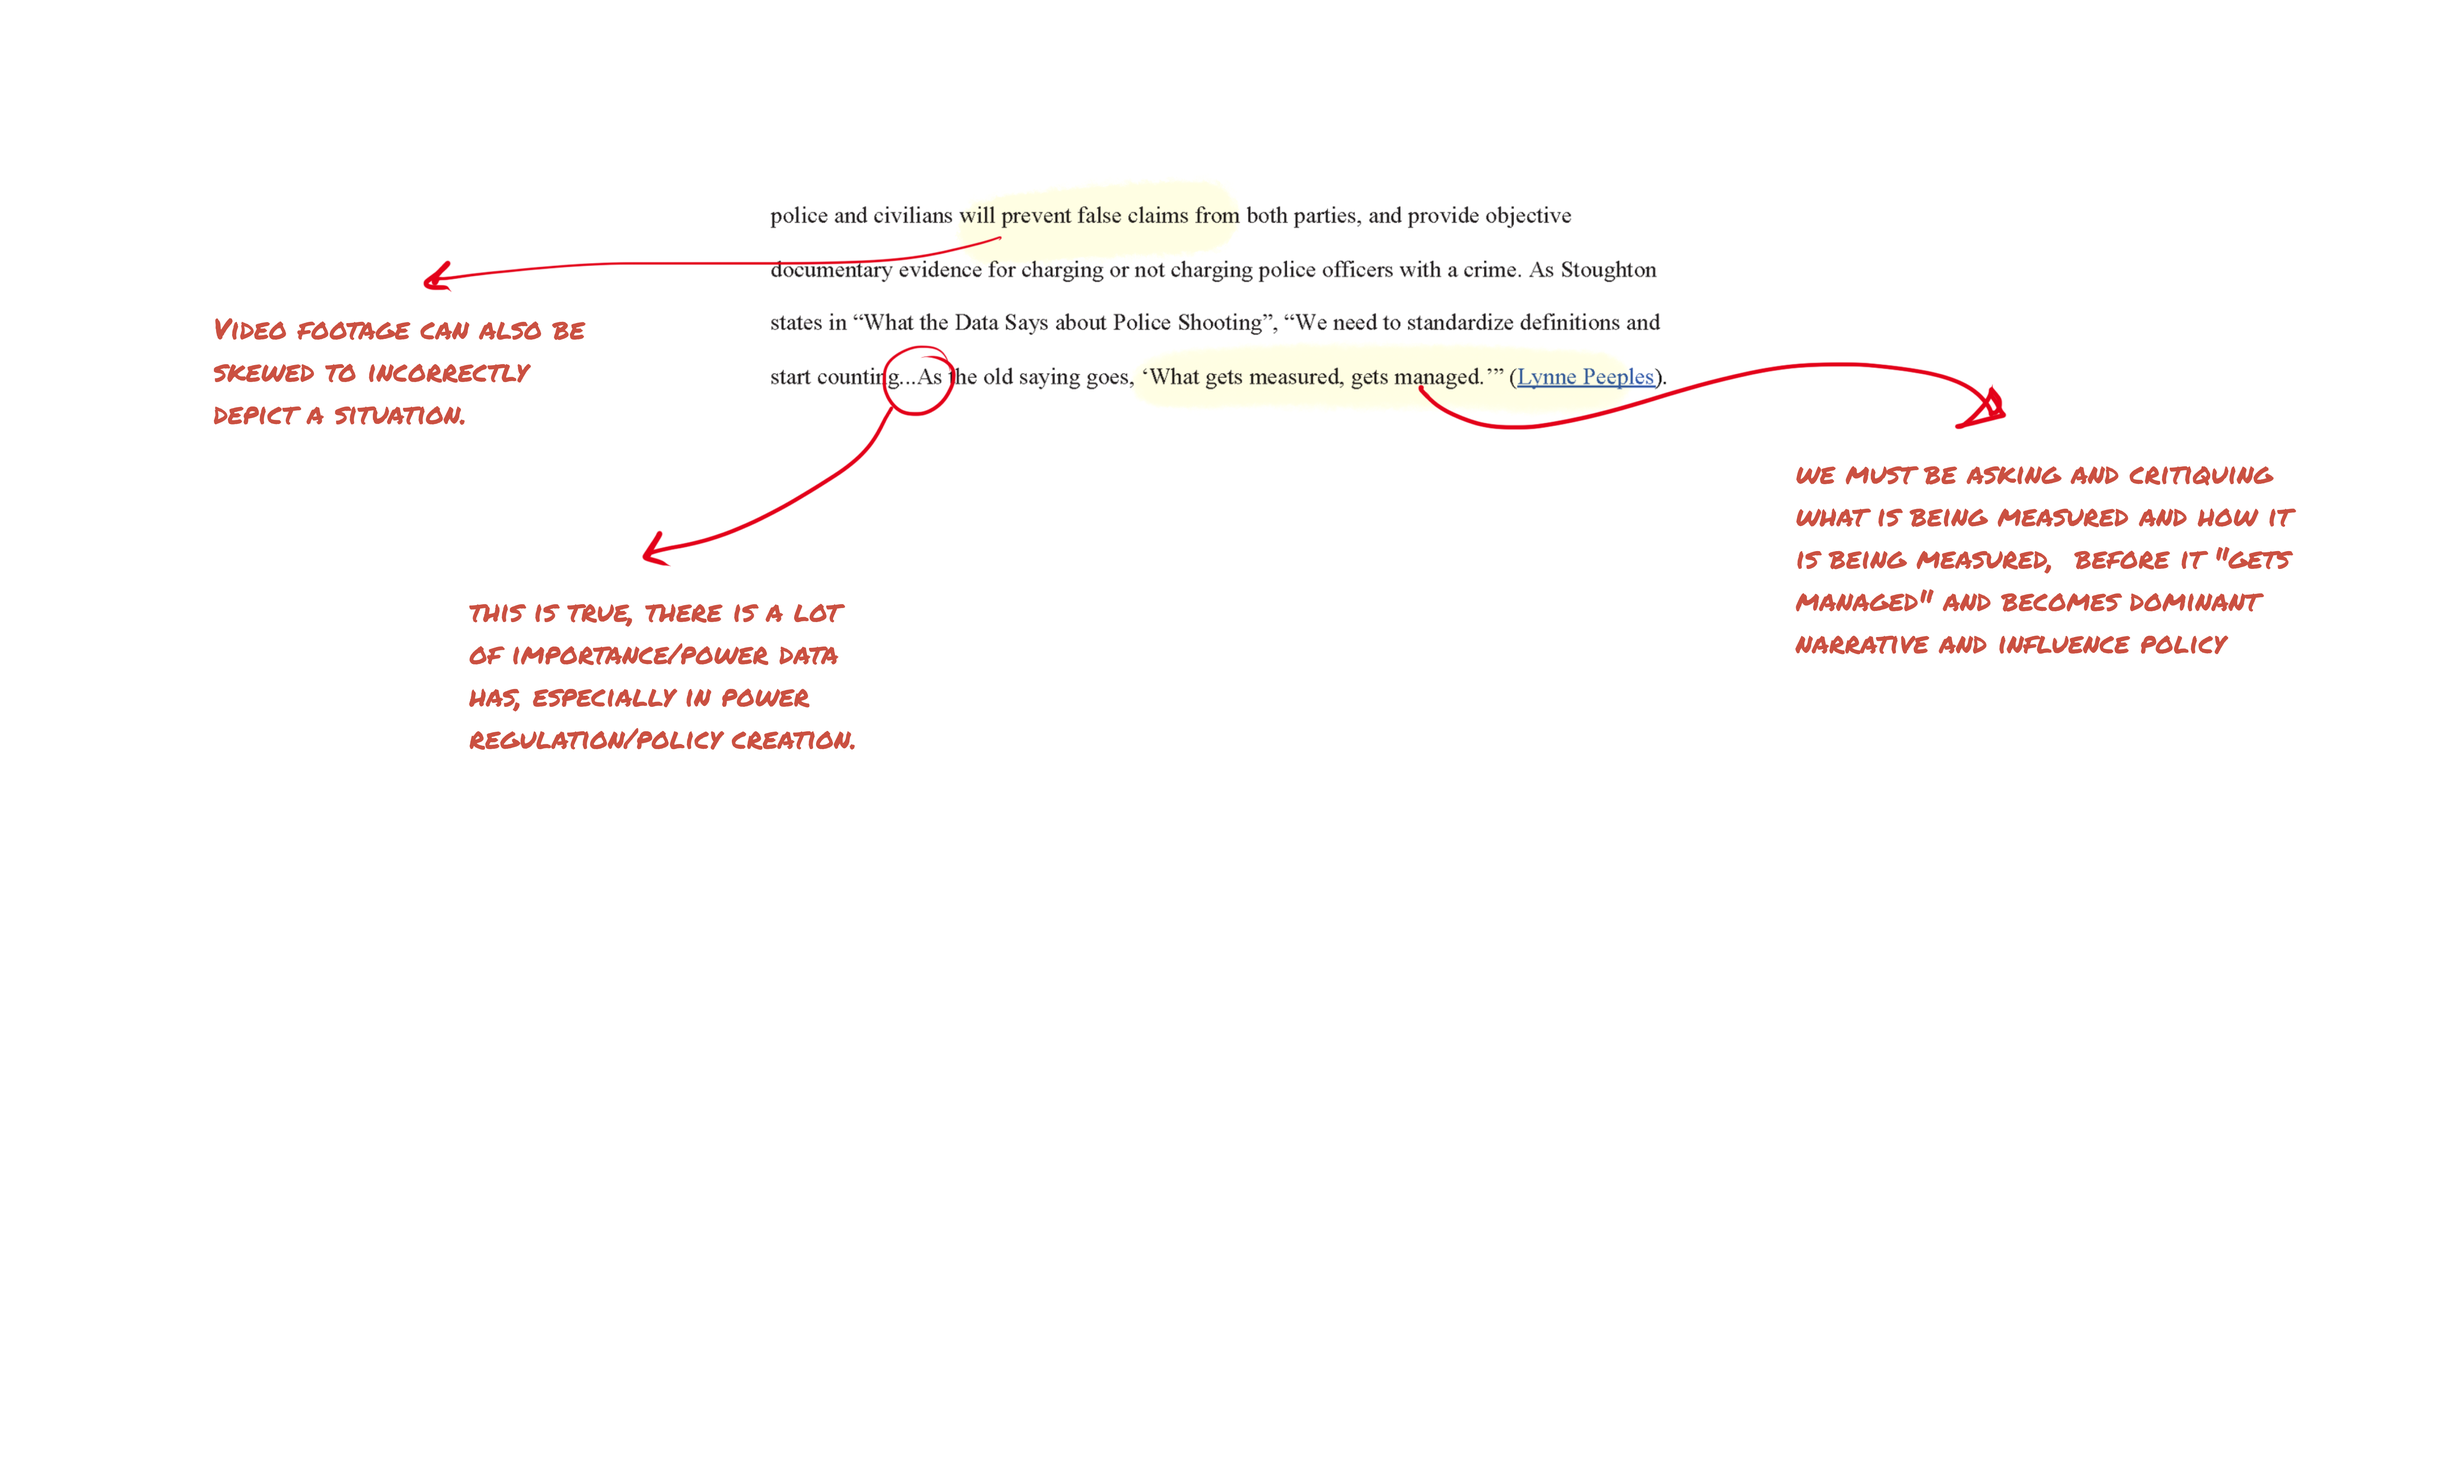
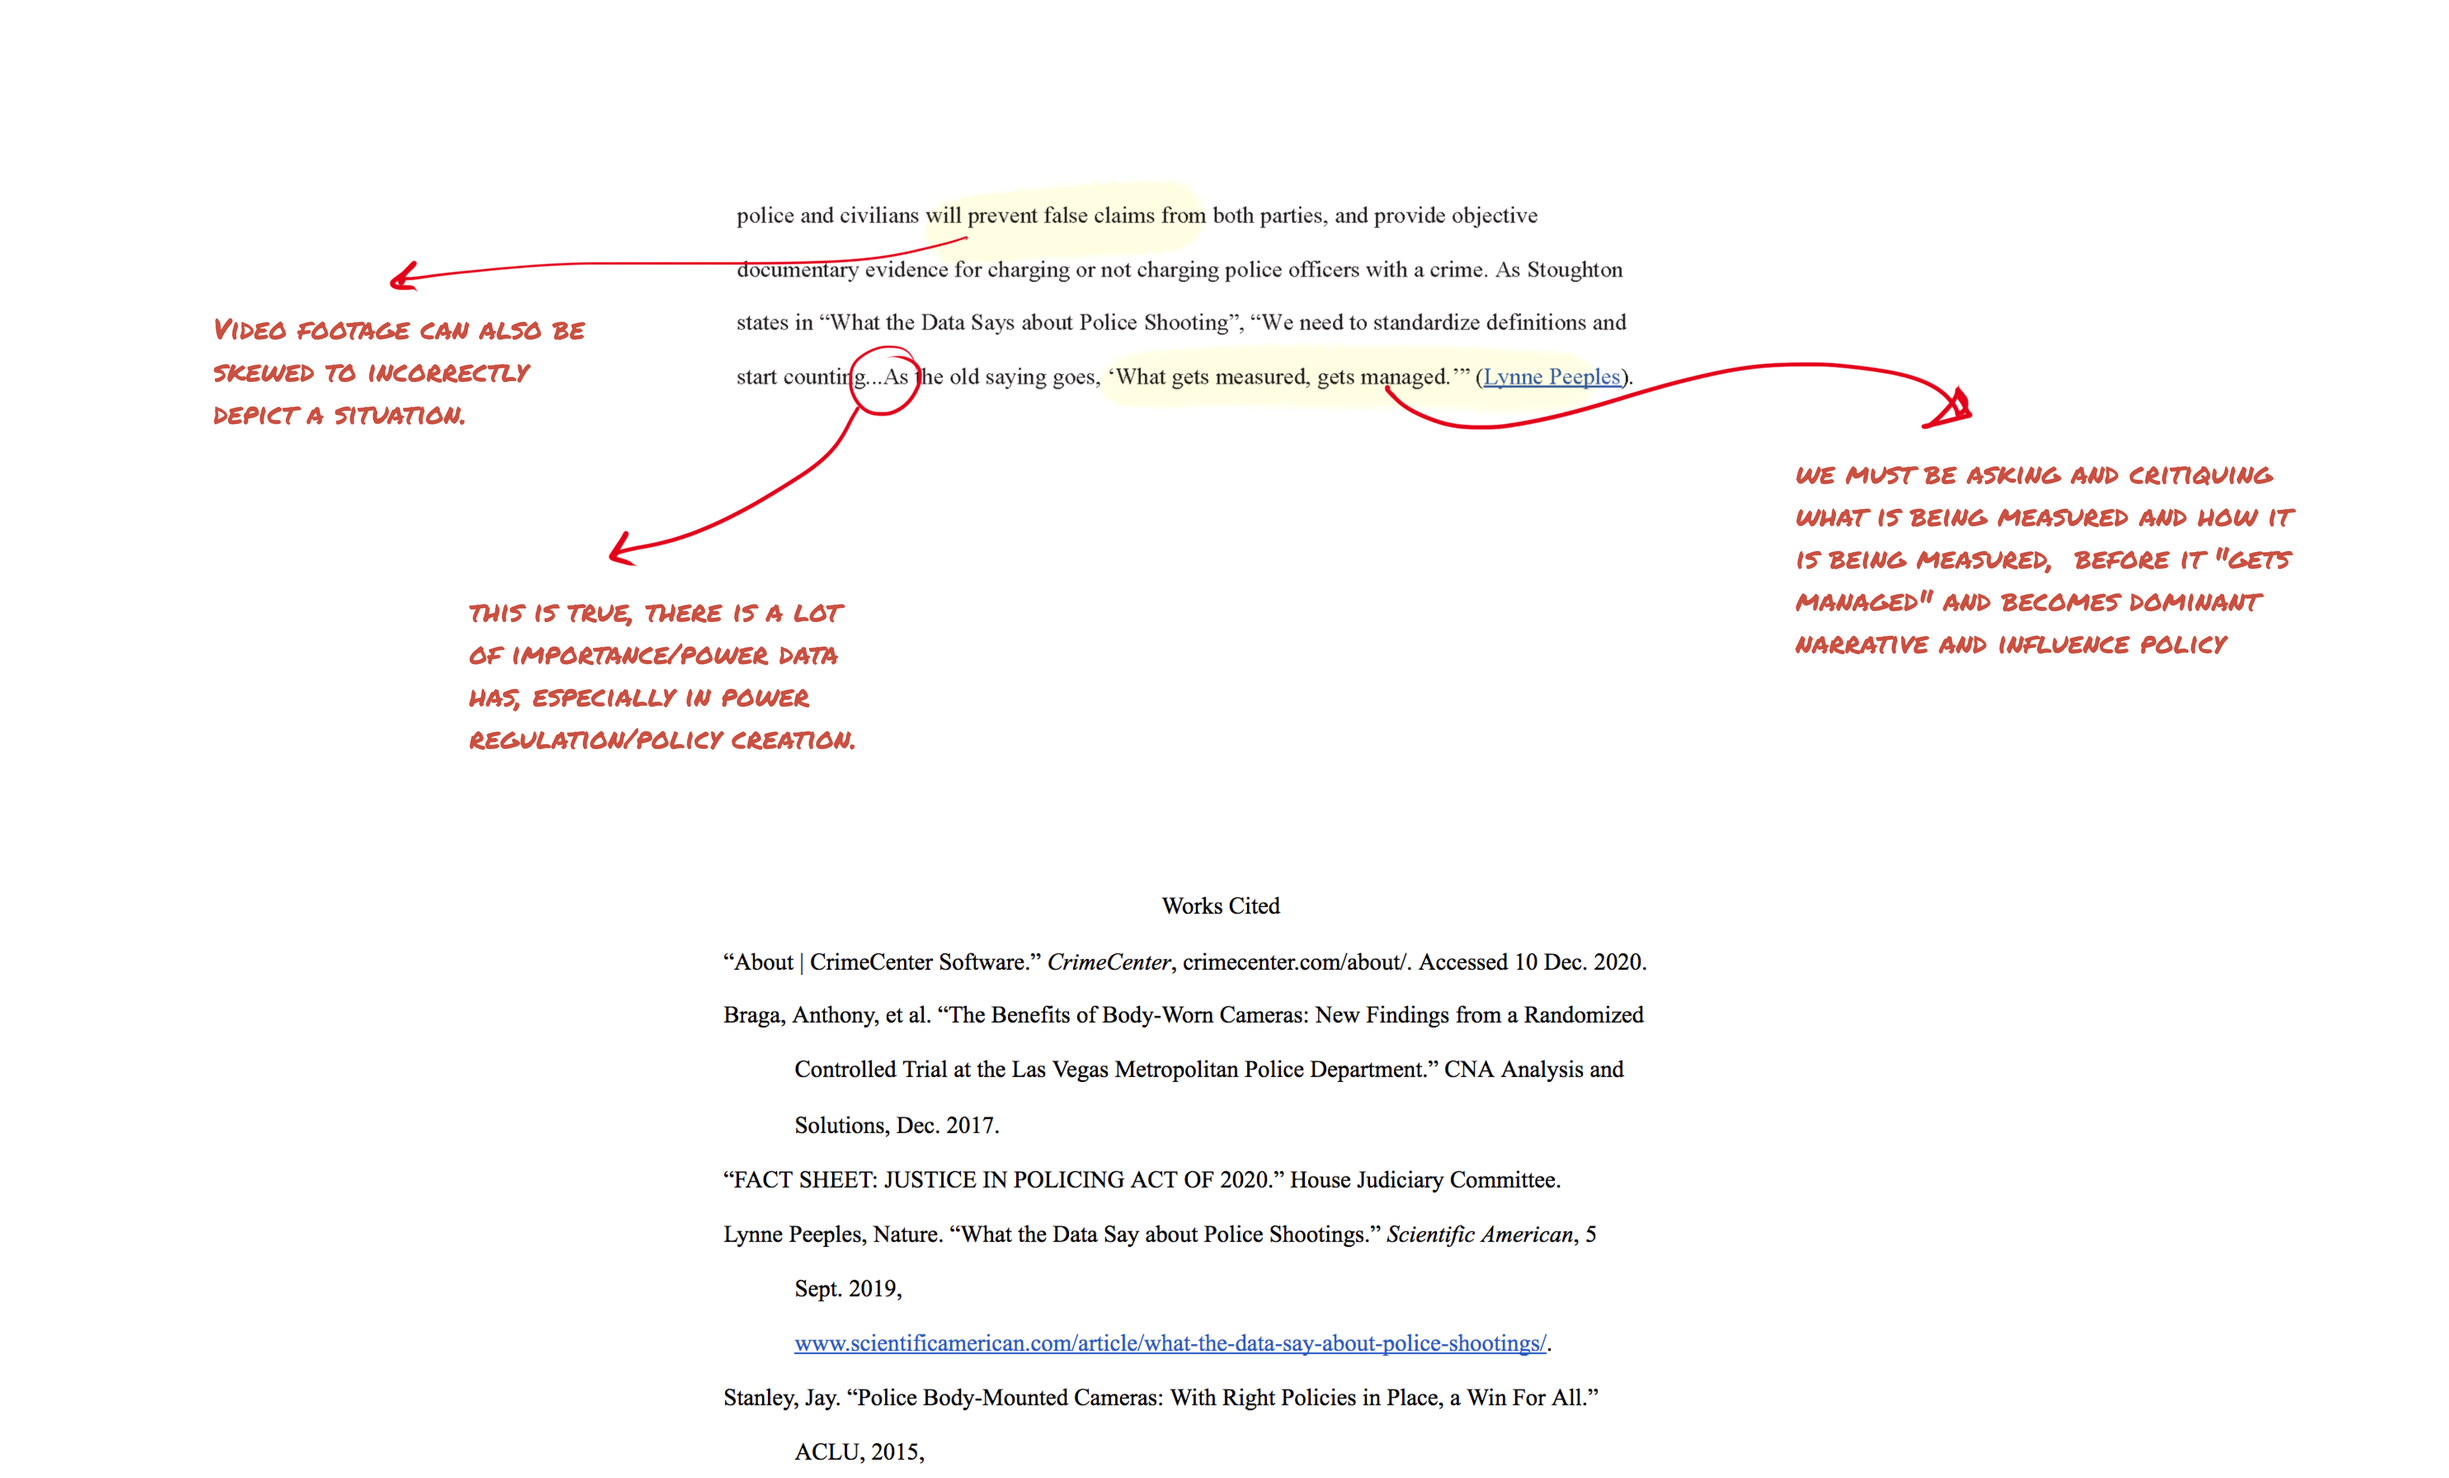
adding works cited:

diff --git a/my-app/src/App.js b/my-app/src/App.js
@@ -14,8 +14,9 @@ import FrameOne from './assets/frames/Frame1.png'
 import FrameTwo from './assets/frames/Frame2.png';
 import FrameThree from './assets/frames/Frame3.png';
 import FrameFour from './assets/frames/Frame4.png';
-import FrameFive from './assets/frames/Frame5.png'
-import FrameSix from './assets/frames/Frame6.png'
+import FrameFive from './assets/frames/Frame5.png';
+import FrameSix from './assets/frames/Frame6.png';
+import FrameSeven from './assets/frames/Frame 7.png';
 import annotations from './assets/annotations';
 import links from './assets/links';
 
@@ -55,7 +56,8 @@ class App extends React.Component {
         <img class="fixed-height p-3" src={FrameThree} />
         <img class="fixed-height p-3" src={FrameFour} />
         <img class="fixed-height p-3" src={FrameFive} />
-        <img class="fixed-height p-3" src={FrameSix} />
+        <img class="fixed-height px-3 pt-3" src={FrameSix} />
+        <img class="w-100" src={FrameSeven} />
 
         <div id="f1-l1">
           {/* //read more */}
